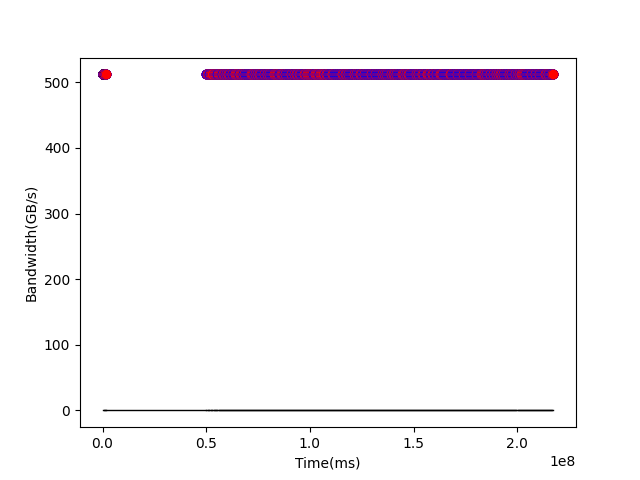
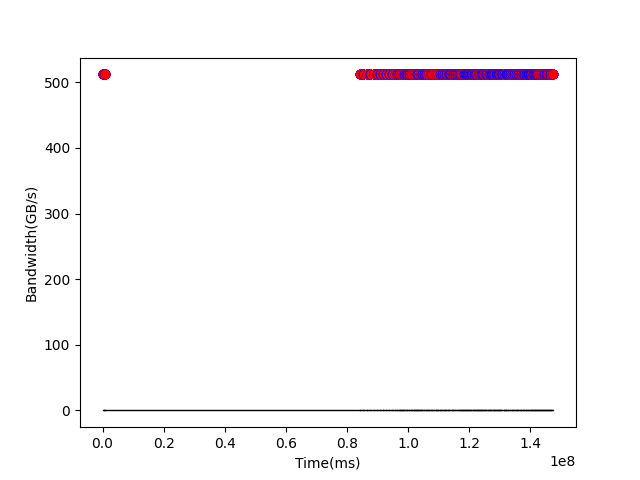
fix the boost mode bug

diff --git a/sim/wafer_device.py b/sim/wafer_device.py
@@ -138,28 +138,23 @@ class Wafer_Device():
     def route_gen(self,src_id,des_id,DEBUG_MODE=True):
         x=self.tile_intra_shape[0]*self.tile_inter_shape[0]
         y=self.tile_inter_shape[1]*self.tile_intra_shape[1]
-        assert (src_id!=des_id)
-        assert (0<=des_id and des_id<(x*y))
-        list=[src_id]
+        assert src_id != des_id, "Source and destination IDs must be different"
+        assert 0 <= des_id < (x * y), "Destination ID out of range"
+        route_list =[src_id]
         if self.route_XY=='X':
             while(src_id!=des_id):
                 if((src_id % y) >(des_id % y)):
                     src_id-=1
-                    list.append(src_id)
                 elif ((src_id % y) <(des_id % y)):
                     src_id+=1
-                    list.append(src_id)
                 else:
-                    if(src_id<des_id):
-                        src_id+=y
-                    else:
-                        src_id-=y
-                    list.append(src_id)
+                    src_id += y if src_id < des_id else -y
+                route_list .append(src_id)
         else:
             pass
         #if DEBUG_MODE:
         #    print('Router_List:{}'.format(list))
-        return list
+        return route_list 
     def link_gen(self,src_id,des_id,DEBUG_MODE=False):
         x0=self.tile_intra_shape[0]
         x1=self.tile_inter_shape[0]
@@ -237,8 +232,8 @@ class Wafer_Device():
             #print("task {} end dram wrtie  @ {:.3f} ms".format(task_id,self.env.now))
             break
     def edge_dram_read_process(self,access_size_MB,src_id,task_id='DDR_READ_TEST',DEBUG_MODE=True):
-        x1=self.tile_inter_shape[1]
-        x0=self.tile_inter_shape[0]
+        x1=self.tile_inter_shape[0]
+        x0=self.tile_intra_shape[0]
         y=self.tile_intra_shape[1]*self.tile_inter_shape[1]
         row_line=int(src_id /y)+1
         des_id=row_line*y-1 if (row_line*y-1-src_id)<(y/2) else (row_line-1)*y
@@ -246,11 +241,13 @@ class Wafer_Device():
             #if DEBUG_MODE:
             #    print("task {} start dram read  @ {:.3f} ms".format(task_id,self.env.now))
             dram_index=int(des_id/y) if (des_id % y)  ==0 else int(des_id/ y)+x1
-            #print('int(des_id/ y)',int(des_id/ y))
-            #print('x1',x1)
-            #print('int(des_id/ y)+x1',int(des_id/ y)+x1)
-            #print('dram_index',dram_index)
-            #print(len(self.edge_dram_resource))
+            '''
+            print('int(des_id/ y)',int(des_id/ y))
+            print('x1',x1)
+            print('int(des_id/ y)+x1',int(des_id/ y)+x1)
+            print('dram_index',dram_index)
+            print(len(self.edge_dram_resource))
+            '''
             if not self.Analytical:
                 yield self.env.process(self.edge_dram_resource[dram_index].access_process(access_size_MB,task_id=task_id,write=False))
             else:

diff --git a/sim/tile_dataflow.py b/sim/tile_dataflow.py
@@ -127,11 +127,10 @@ class Tile():# for compute process
         this is the tile compute process
         the input is macs(M) or [M,N,K] parameter
         '''
-        exetime=0.0
-        if type(macs_m)==list:
-            exetime=self.compute_cycles(macs_m)/self.freq/1000/1000 #ns to ms
+        if isinstance(macs_m, list):
+            exetime = self.compute_cycles(macs_m) / self.freq / 1e6  # ns to ms
         else:
-            exetime=2*macs_m/self.TOPS/1000 # us to ms
+            exetime = 2 * macs_m / self.TOPS / 1e3  # us to ms
         if not self.Analytical:
             with self.cp_worker.request() as req:
                     yield req
@@ -142,14 +141,12 @@ class Tile():# for compute process
         '''
         this is the tile communication process
         '''
-        comm_mbytes=0
-        #print(comm_op)
+        comm_mbytes=comm_op.size*self.comm_bytes
         #here if communication can not overlap by compute time,the 'cm_worker' should to be 'cp_worker'
         if not self.Analytical:
             with (self.cm_worker.request() if overlap else self.cp_worker.request()) as req:
                     yield req       
                     for gp in comm_op.device_group:
-                        comm_mbytes=comm_op.size*self.comm_bytes
                         if comm_op.type==COMM.ALL_REDUCE:
                             yield wd1.env.process(wd1.ALL_2_ALL_process(comm_mbytes,gp,traffic_tpye))
                         elif comm_op.type==COMM.ALL_2_ALL:
@@ -160,7 +157,6 @@ class Tile():# for compute process
                             pass
         else:
             for gp in comm_op.device_group:
-                comm_mbytes=comm_op.size*self.comm_bytes
                 if comm_op.type==COMM.ALL_REDUCE:
                     yield wd1.env.process(wd1.ALL_2_ALL_process(comm_mbytes,gp,traffic_tpye))
                 elif comm_op.type==COMM.ALL_2_ALL:

diff --git a/sim/main_run.py b/sim/main_run.py
@@ -7,7 +7,7 @@ from ML import *
 import simpy
 if __name__ == '__main__':
     #0 TODO set config info by configparser
-    Analytical=False
+    Analytical=True
     wafer_config={
         'wafer_name':'test',
         'tile_inter_shape':[4,4],#scale out dimension
@@ -64,7 +64,7 @@ if __name__ == '__main__':
         noc=wd,
         pipe_type=pipe_strategy.Megatron1F1B
         )
-    gpt_pipe_sim.pipeline_set(boost_mode=False)
+    gpt_pipe_sim.pipeline_set(boost_mode=True)
   
     #5.simpy run  
     ONE_WEEK_MS=24*60*60*7*1000
@@ -75,8 +75,8 @@ if __name__ == '__main__':
     gpt_pipe_sim.pipeline_status(clear=False)
 
     #res_type='edge_dram' or '3ddram' or 'noc' or 'all'
-    if not wafer_config['Analytical']:
-        wd.resource_visualize(res_type='edge_dram',clear=True)
+    #if not wafer_config['Analytical']:
+    #    wd.resource_visualize(res_type='edge_dram',clear=True)
 
 
 
